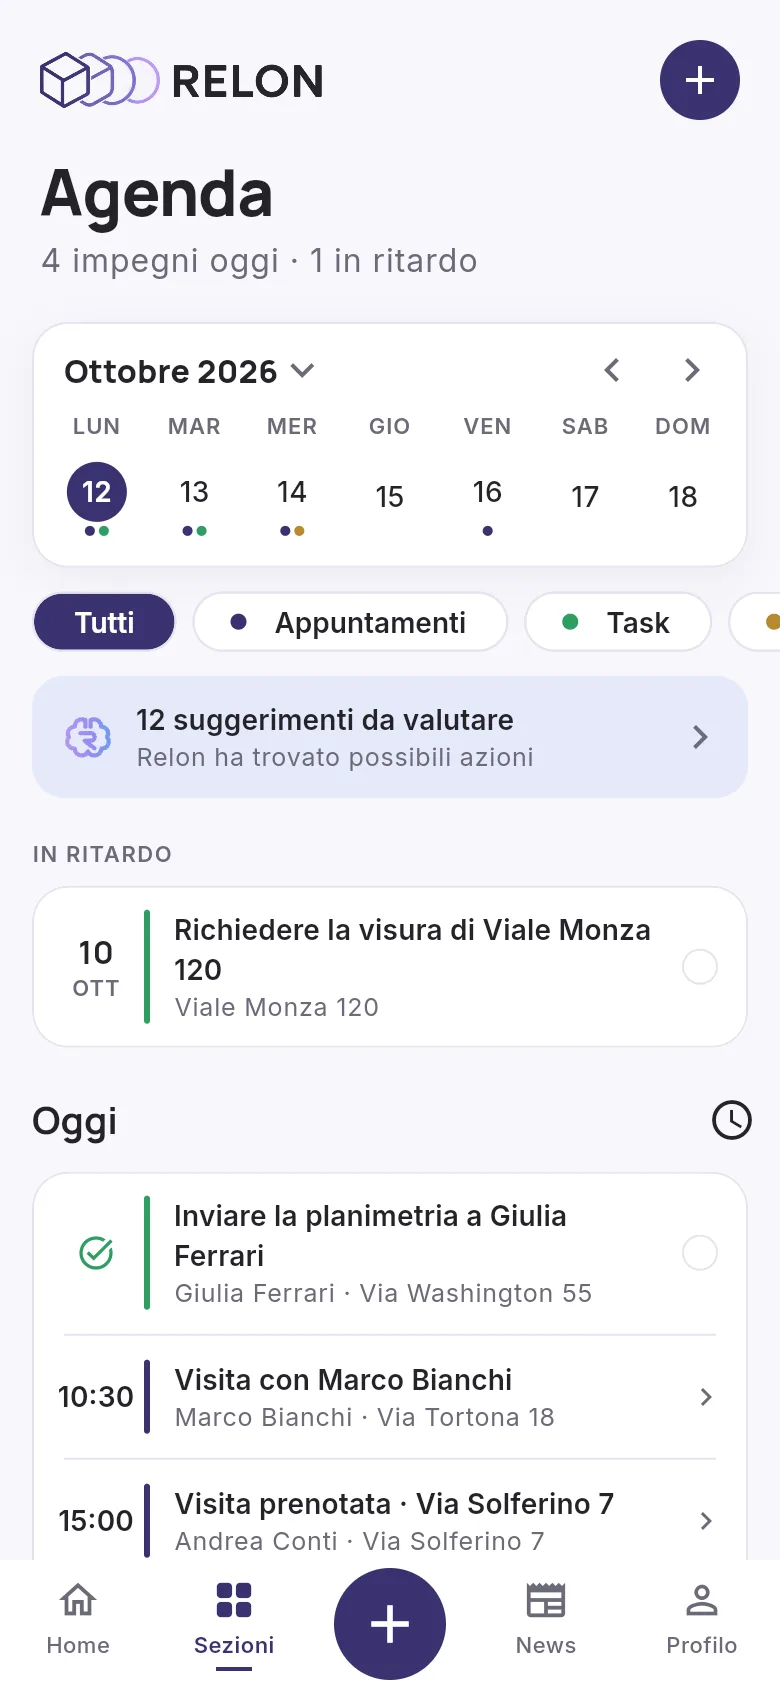
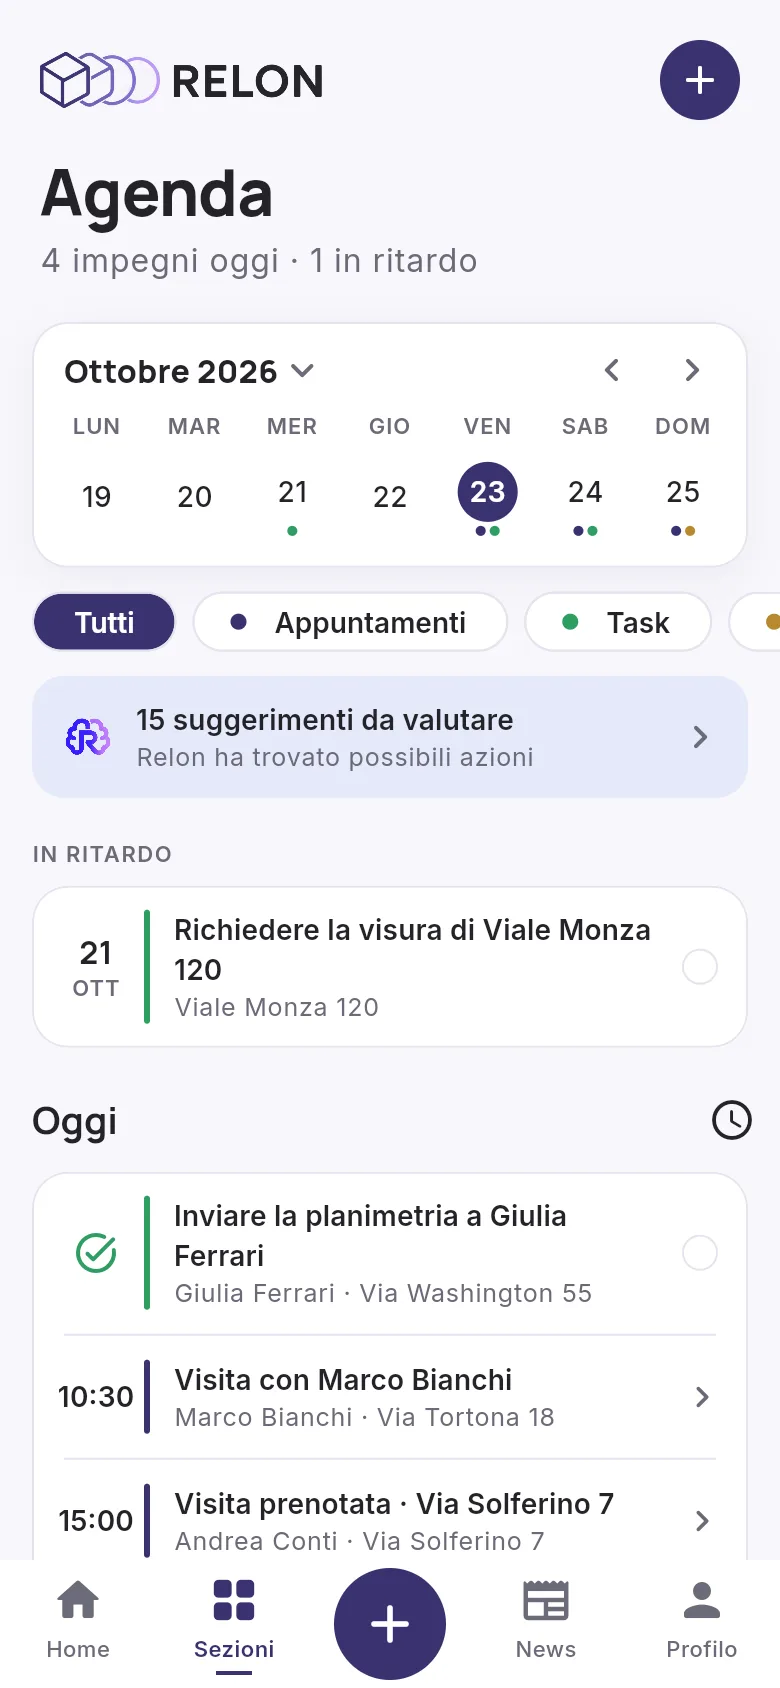
tutte le schermate rifatte sull'app di oggi (via le stelline della demo e le icone vecchie); tolta la fila News, Accesso, Scorciatoie, Lingua

diff --git a/index.html b/index.html
@@ -409,12 +409,6 @@ footer .legal { display: flex; gap: 20px; flex-wrap: wrap; }
         <img src="assets/screens/desktop-home.webp" width="1440" height="900" loading="lazy" alt="Relon su computer: il briefing della giornata, i suggerimenti e il portafoglio">
       </div>
 
-      <div class="more">
-        <div class="feature"><span class="n">News</span><h3>Mercato immobiliare</h3><p>Le notizie da Il Sole 24 Ore, Casa&amp;Clima e Wall Street Italia, da salvare e condividere.</p></div>
-        <div class="feature"><span class="n">Accesso</span><h3>Email, Google o Apple</h3><p>Entri con email e password, con Google o con Apple. Sul computer basta inquadrare un QR col telefono.</p></div>
-        <div class="feature"><span class="n">Scorciatoie</span><h3>Cerca con Ctrl+K</h3><p>Su computer trovi contatti, immobili, trattative e note da qualsiasi schermata.</p></div>
-        <div class="feature"><span class="n">Lingua</span><h3>Italiano e inglese</h3><p>Cambi lingua dalle impostazioni quando vuoi.</p></div>
-      </div>
     </div>
   </section>
 
